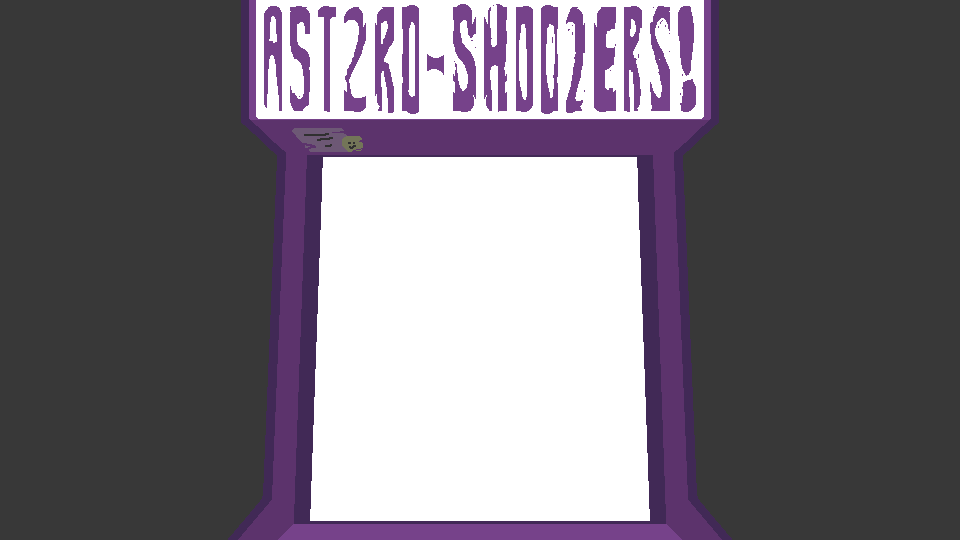
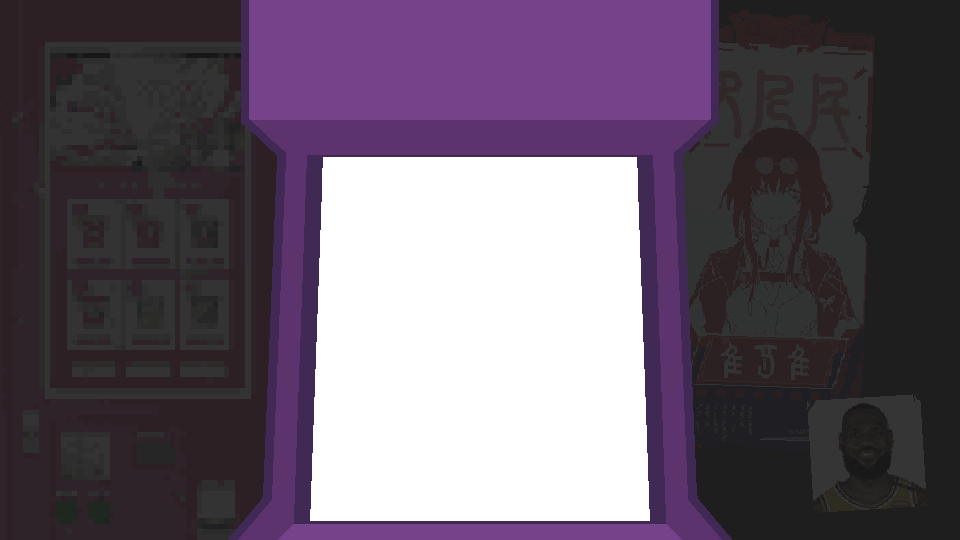
Updated arcade background, fixed issues with High score recording

diff --git a/code/main.py b/code/main.py
@@ -57,6 +57,9 @@ def main():
 # Game elements
 class Game:
     def __init__(self):
+
+        handle_fresh_file()
+
         # Player setup
         player_sprite = Player((display_width/2, display_height - 50), display_width/2 + screen_width/2, 8)
         self.player = pygame.sprite.GroupSingle(player_sprite)
@@ -122,19 +125,20 @@ class Game:
         # Timers
         self.timers = {
             'shield' : Timer(1500, func = self.toggle_shield),
-            'spawn_boss': Timer(5000, autostart = True, func = self.spawn_boss),
-            'spawn_enemies': Timer(1000, autostart = True, func = self.spawn_enemy_flag)
+            'spawn_boss': Timer(10000, func = self.spawn_boss),
+            'spawn_enemies': Timer(2000, func = self.spawn_enemy_flag)
         }
 
         # Arcade 
         self.arcade = Arcade()
         self.CRT = CRT()
+        self.flicker = Arcade_Flicker()
 
         # Menu
         self.menu = Menu(screen, display_width, display_height)
         self.high_scores = High_Scores(screen, display_width, display_height)
         self.pause_menu = Pause(screen, display_width, display_height)
-        self.game_over_menu = Game_Over(screen, display_width, display_height, self.score)
+        self.game_over_menu = Game_Over(screen, display_width, display_height)
 
         # Layers
         self.layers = pygame.sprite.LayeredUpdates()
@@ -143,6 +147,8 @@ class Game:
         print("Game started!")
         self.menu_running = False
         self.game_running = True
+        self.timers['spawn_boss'].activate()
+        self.timers['spawn_enemies'].activate()
 
     def quit_game(self):
         pygame.quit()  # Quit pygame
@@ -259,8 +265,8 @@ class Game:
             timer.update()
 
     def reset_timers(self):
-        for timer in self.timers.values():
-            timer.reset()
+        self.timers['spawn_boss'].activate()
+        self.timers['spawn_enemies'].activate()
 
     def collision_check(self):
         # Player lasers
@@ -292,6 +298,7 @@ class Game:
                                     self.combo_bonus = self.combo * 10
                             self.score += (self.boss.sprite.value + self.combo_bonus)
                             self.boss.sprite.kill()
+                            self.timers['spawn_boss'].activate()
                         self.explosion_audio.play()
                         laser.kill()
 
@@ -381,11 +388,13 @@ class Game:
         shield_rect = shield_surf.get_rect(bottomleft=(arcade_screen_left - 10, arcade_screen_bottom))
         screen.blit(shield_surf, shield_rect)
 
-    def display_game_over(self):
-        pygame.mixer.music.stop()
-        self.laser_audio.stop()
-        self.explosion_audio.stop()
+    def display_game_over_score(self):
+        self.high_scores.read_highscores()
+        game_over_score_text = self.font.render(f"Your Score: {self.score}", True, (255, 255, 255))
         
+        game_over_score_rect = game_over_score_text.get_rect(center=(display_width / 2, display_height / 2))
+      
+        screen.blit(game_over_score_text, game_over_score_rect)
 
     def handle_high_scores(self):
         with open('records\\high_scores.txt', 'r') as file:
@@ -431,6 +440,7 @@ class Game:
     def run(self):
         if self.game_over:
             self.game_over_menu.run()
+            self.display_game_over_score()
 
         # Update 
         # Is inside of an if-else because the game runs normally otherwise
@@ -475,6 +485,7 @@ class Game:
         
         self.CRT.draw()
         self.arcade.draw()
+        self.flicker.draw()
         
             
 # For extra graphics
@@ -506,6 +517,16 @@ class Arcade(pygame.sprite.Sprite):
     def draw(self):
         screen.blit(self.arcade, (0,0))
 
+class Arcade_Flicker(pygame.sprite.Sprite):
+    def __init__(self):
+        super().__init__()
+        self.flicker = pygame.image.load('images\\flicker.png').convert_alpha()
+        self.flicker = pygame.transform.scale(self.flicker, (1920, 1080))
+        self.rect = self.flicker.get_rect(center=(display_width / 2, display_height / 2))
+    
+    def draw(self):
+        self.flicker.set_alpha(randint(10, 15))
+        screen.blit(self.flicker, self.rect)
 # Main game loop
 if __name__ == '__main__':
   pygame.init()

diff --git a/code/menu.py b/code/menu.py
@@ -42,7 +42,9 @@ class High_Scores:
         self.FONT = pygame.font.Font(None, 36)
         self.TITLE_FONT = pygame.font.Font('font\\Pixeled.ttf', 45)
         self.MESSAGE_FONT= pygame.font.Font('font\\Pixeled.ttf', 25)
+        self.read_highscores()
 
+    def read_highscores(self):
         with open('records\\high_scores.txt', 'r') as file:
             content = file.readlines()
             self.first_score = content[0].strip('\n')  
@@ -118,7 +120,7 @@ class Pause:
         self.display_return()
 
 class Game_Over:
-    def __init__(self, screen, screen_width, screen_height, score):
+    def __init__(self, screen, screen_width, screen_height):
         self.screen = screen
         self.screen_width = screen_width
         self.screen_height = screen_height
@@ -126,20 +128,12 @@ class Game_Over:
         self.items_font = pygame.font.Font('font\\Pixeled.ttf', 15)
         self.menu_items = ["Restart","Menu", "Quit"]
         self.selected_item = 0
-        self.score = score
 
     def display_title(self):
         title_surf = self.title_font.render("GAME OVER", False, 'white')
         title_rect = title_surf.get_rect(center=(self.screen_width / 2, 500))
         self.screen.blit(title_surf, title_rect)
     
-    def display_details(self):
-        self.score_text = self.items_font.render(f"Your Score: {self.score}", True, (255, 255, 255))
-        
-        self.score_rect = self.score_text.get_rect(center=(self.screen_width / 2, self.screen_height / 2))
-      
-        self.screen.blit(self.score_text, self.score_rect)
-
     def display_menu(self):
         for index, item in enumerate(self.menu_items):
             color = 'red' if index == self.selected_item else 'gray'
@@ -150,7 +144,6 @@ class Game_Over:
     def run(self):
         # Draw the title and menu options
         self.display_title()
-        self.display_details()
         self.display_menu()
 
 

diff --git a/code/boss.py b/code/boss.py
@@ -15,7 +15,7 @@ class Boss(pygame.sprite.Sprite):
     self.health_scaling = round(self.spawn_time / 500)
     self.has_drop = has_drop
     self.layer = layer
-    self.health = 100
+    self.health = 10
     self.value = 5000
     self.left_constraint = arcade_screen_left
     self.right_constraint = arcade_screen_right

diff --git a/code/timer.py b/code/timer.py
@@ -27,7 +27,3 @@ class Timer:
       if current_time - self.start_time >= self.duration:
         if self.func: self.func()
         self.deactivate()
-  
-  def reset(self):
-    if self.autostart:
-      self.activate()
